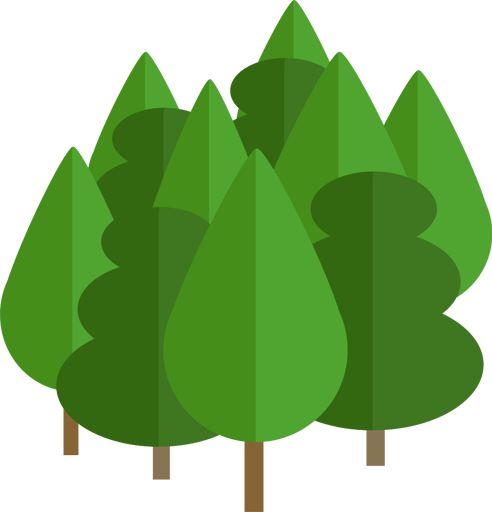
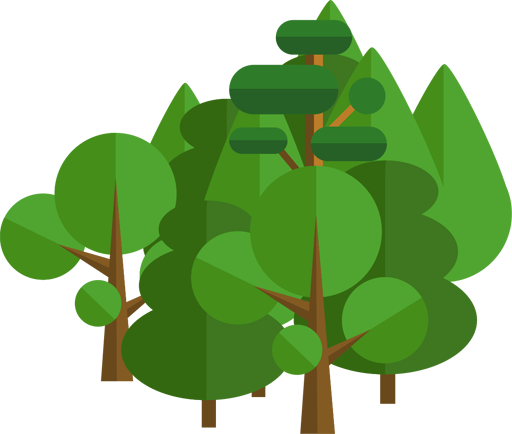
Изменен внешний вид кликера деревьев

diff --git a/src/ru/majestic/thetown/view/clickers/impl/WoodClickerView.java b/src/ru/majestic/thetown/view/clickers/impl/WoodClickerView.java
@@ -5,11 +5,11 @@ import ru.majestic.thetown.view.clickers.AClickerViewSkeleton;
 
 public class WoodClickerView extends AClickerViewSkeleton {
 
-   private static final int X = 245;
-   private static final int Y = 500;
+   private static final int X = 235;
+   private static final int Y = 550;
    
-   private static final float WIDTH    = 235.0f;
-   private static final float HEIGHT   = 265.0f;   
+   private static final float WIDTH    = 255.0f;
+   private static final float HEIGHT   = WIDTH * 0.85f;   
    
    public WoodClickerView() {
       super(X, Y, WIDTH, HEIGHT, ResourceManager.getInstance().getWoodClickerBgndTextureRegion(), ResourceManager.getInstance().getEngine().getVertexBufferObjectManager());
